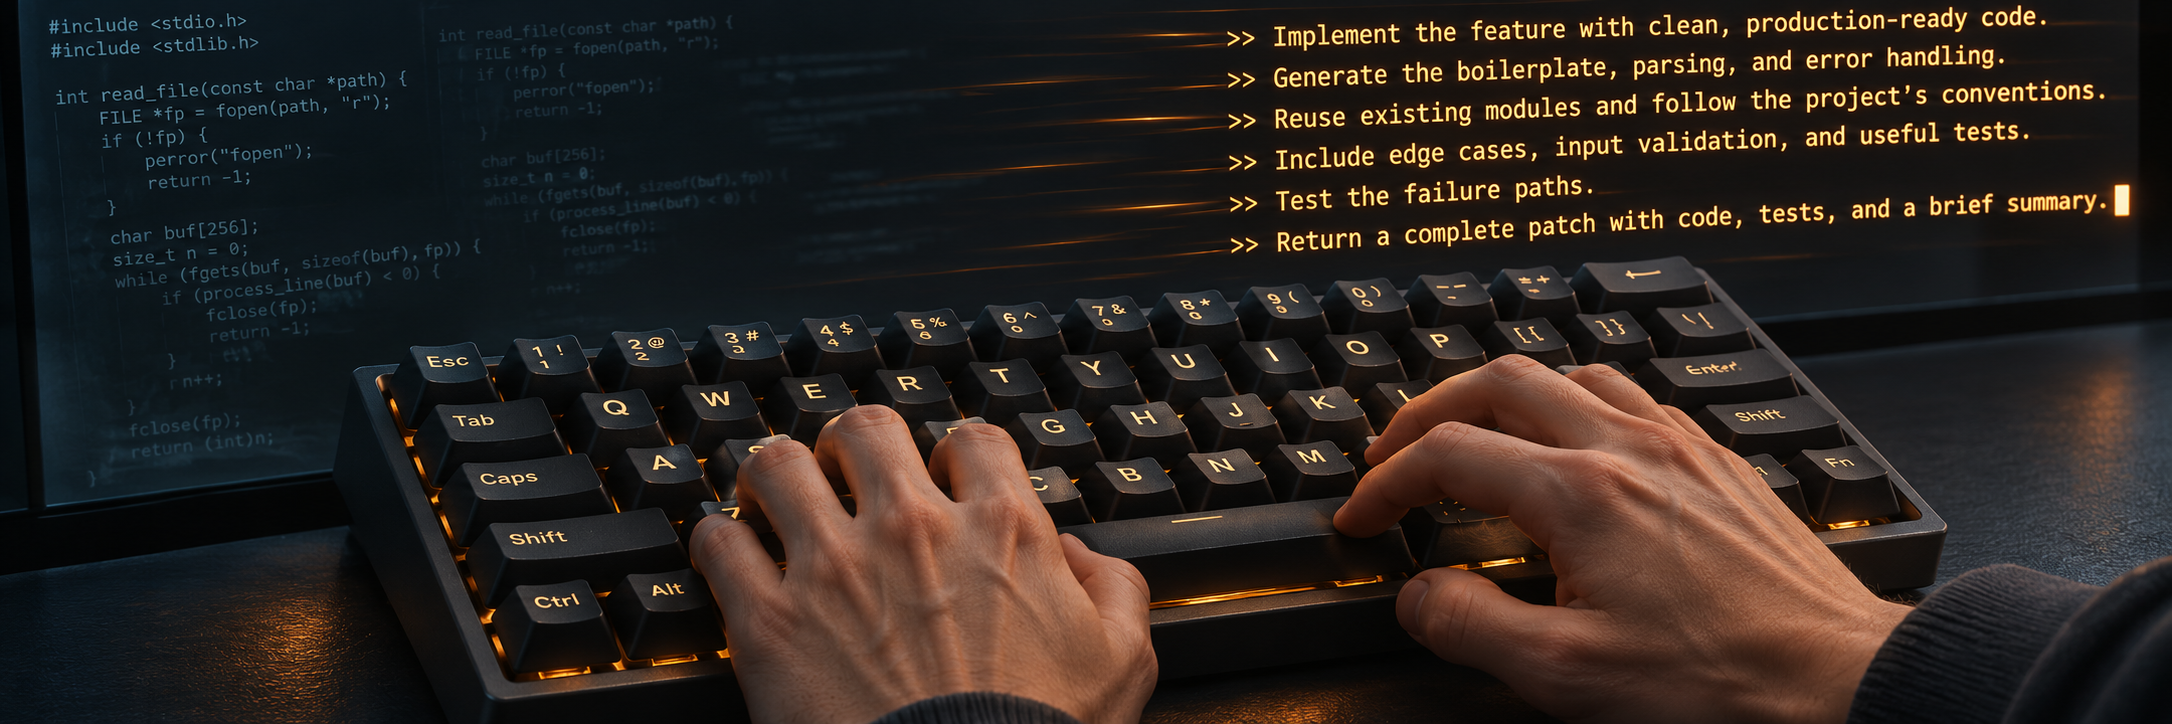
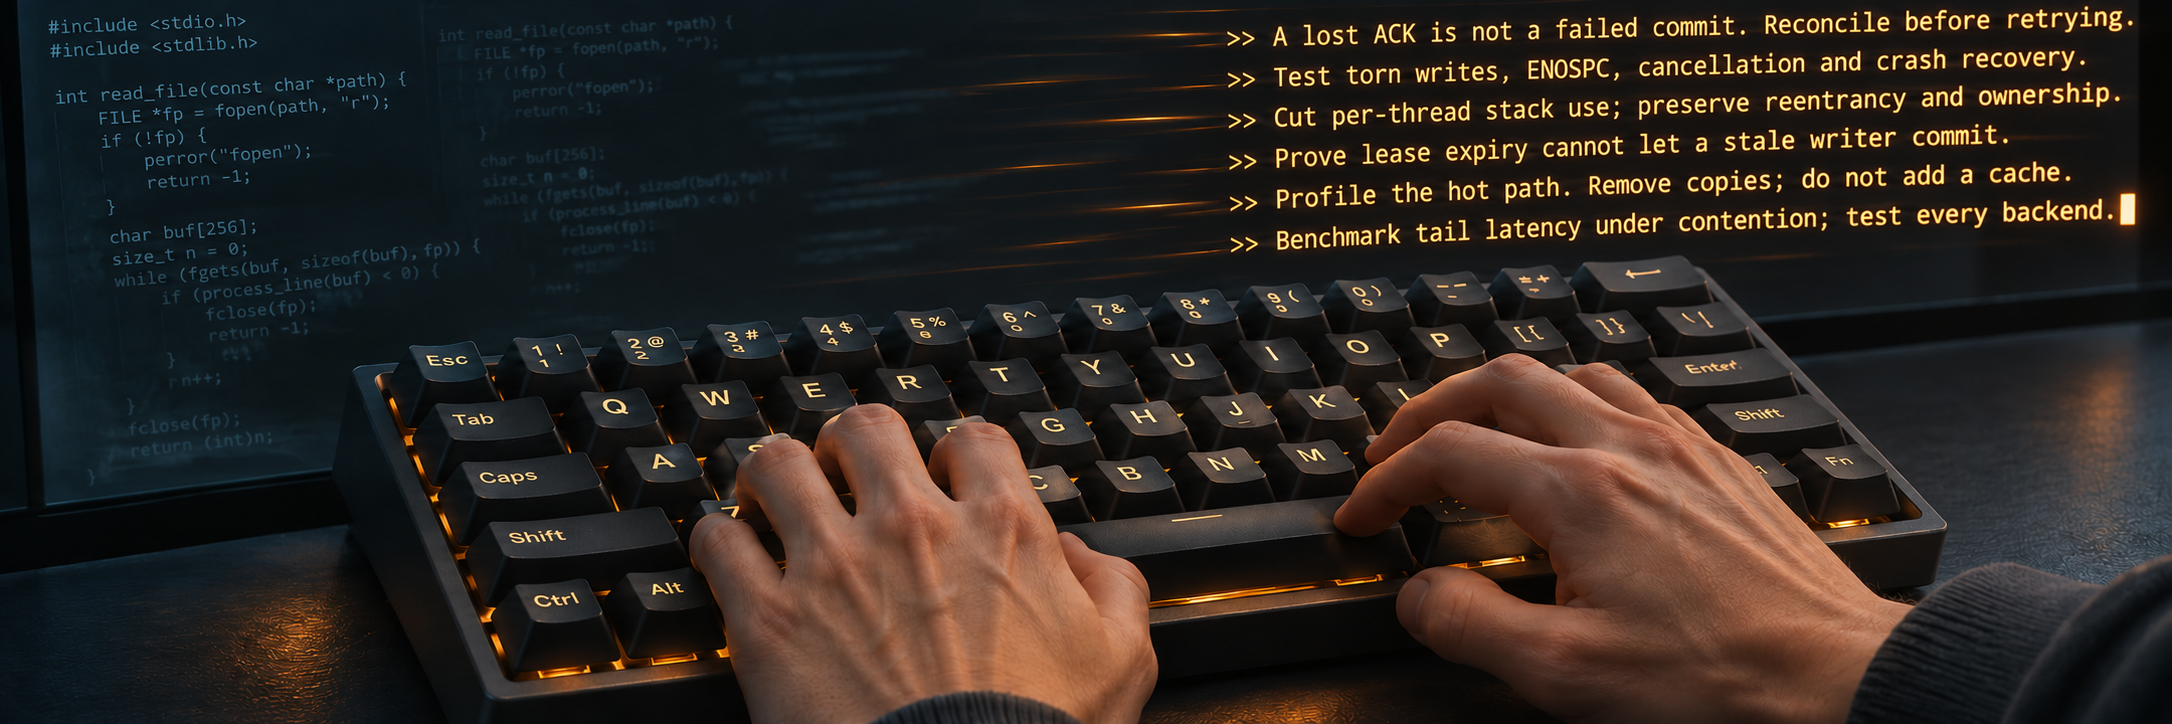
docs(essay): illustrate specific systems engineering prompts

diff --git a/the_engineer_who_displaced_himself/illustrations/art-direction.md b/the_engineer_who_displaced_himself/illustrations/art-direction.md
@@ -28,6 +28,26 @@ Edit the supplied image. Preserve the engineer's hand, the serious black mechani
 
 Use case: illustration-story. Create a new full-bleed rectangular cinematic editorial image about an engineer typing MORE than ever while delegating manual code syntax. Wide 3:1 composition. Foreground: two anatomically natural human hands actively typing on a beautiful intact compact premium 60-percent mechanical keyboard, thick sculpted dark PBT keycaps, deep mechanical switches, substantial charcoal case, Wooting-inspired quality, subtle warm amber underlighting. EVERY KEY and the entire keyboard stay solid, sharp and vivid: absolutely NO fading, dissolving or erasure of keyboard or hands. Behind it a wide dark glass screen carries a visual transition: at LEFT pale small C-language code fragments with braces, semicolons and nested indentation recede into dim ghostly traces; at RIGHT dense flowing lines of warm amber written instructions are clear and energetic, with a bright cursor, suggesting rapid deliberate prompting. No giant slogans or labels. Use the brief readable instruction 'Test the failure paths.' once on the right screen if text is visible. The ghosting belongs ONLY to source-code syntax on the left screen. Hands retain agency; typing is central and loved. Crisp contemporary photographic surrealism, black/charcoal and restrained amber, cool blue screen shadows, intimate side angle. No office stock photography, gears, steampunk, white vignette, soft edges, rounded corners, borders, logos or watermark. Image fills all four square corners.
 
+### Screen-text revision — 6 November 2026
+
+The following built-in ImageGen edit replaces the generic instructions in the original generation. These are illustrative engineering prompts, not quotations from a recorded session.
+
+```text
+Use case: text-localization.
+Asset type: full-column cinematic editorial illustration for a LaTeX essay.
+Input image: the supplied full wide image is the edit target.
+Primary request: replace ONLY the six amber prompt lines on the upper-right screen. These must read as technically specific directions from a senior systems engineer, not generic boilerplate instructions.
+Text (verbatim, six separate lines):
+>> A lost ACK is not a failed commit. Reconcile before retrying.
+>> Test torn writes, ENOSPC, cancellation and crash recovery.
+>> Cut per-thread stack use; preserve reentrancy and ownership.
+>> Prove lease expiry cannot let a stale writer commit.
+>> Profile the hot path. Remove copies; do not add a cache.
+>> Benchmark tail latency under contention; test every backend.
+Typography: crisp legible amber monospace lettering, consistent size, restrained glow, matching screen perspective. Keep all six lines complete and comfortably inside the screen edges. Bright cursor after the final sentence. Do not add any other prompt text. Remove all original six instructions completely.
+Invariants: preserve the original panoramic 3:1 composition, full-bleed square corners, two anatomically natural typing hands, intact solid premium 60-percent mechanical keyboard with tall sculpted keycaps, desk, camera position, dark screen, fading blue C syntax on the left, warm under-key lighting and cool shadows. No faded keyboard or hands, rounded corners, soft borders, white margin, new objects, logos or watermarks. Change only the amber screen text. Output the complete full illustration, not a crop of the screen.
+```
+
 ## three-roles.png
 
 Edit the supplied image with extreme fidelity to all content: the same middle-aged engineer seated from behind, his three reflections configuring a board, directing processes, and observing, the black premium mechanical keyboard, cool dark room and orange/blue accents. Change ONLY edge treatment. REMOVE ALL white feathering, blurred margins, soft masking and rounded corners. Extend the actual dark room, desk and reflections right out to every edge and all four SQUARE CORNERS. Full-bleed sharp rectangular cinematic image, 3:1 aspect ratio, no border, no white outside background, no vignette. Preserve people, layout, expressions and material detail. No new text, logo, caption or objects.
